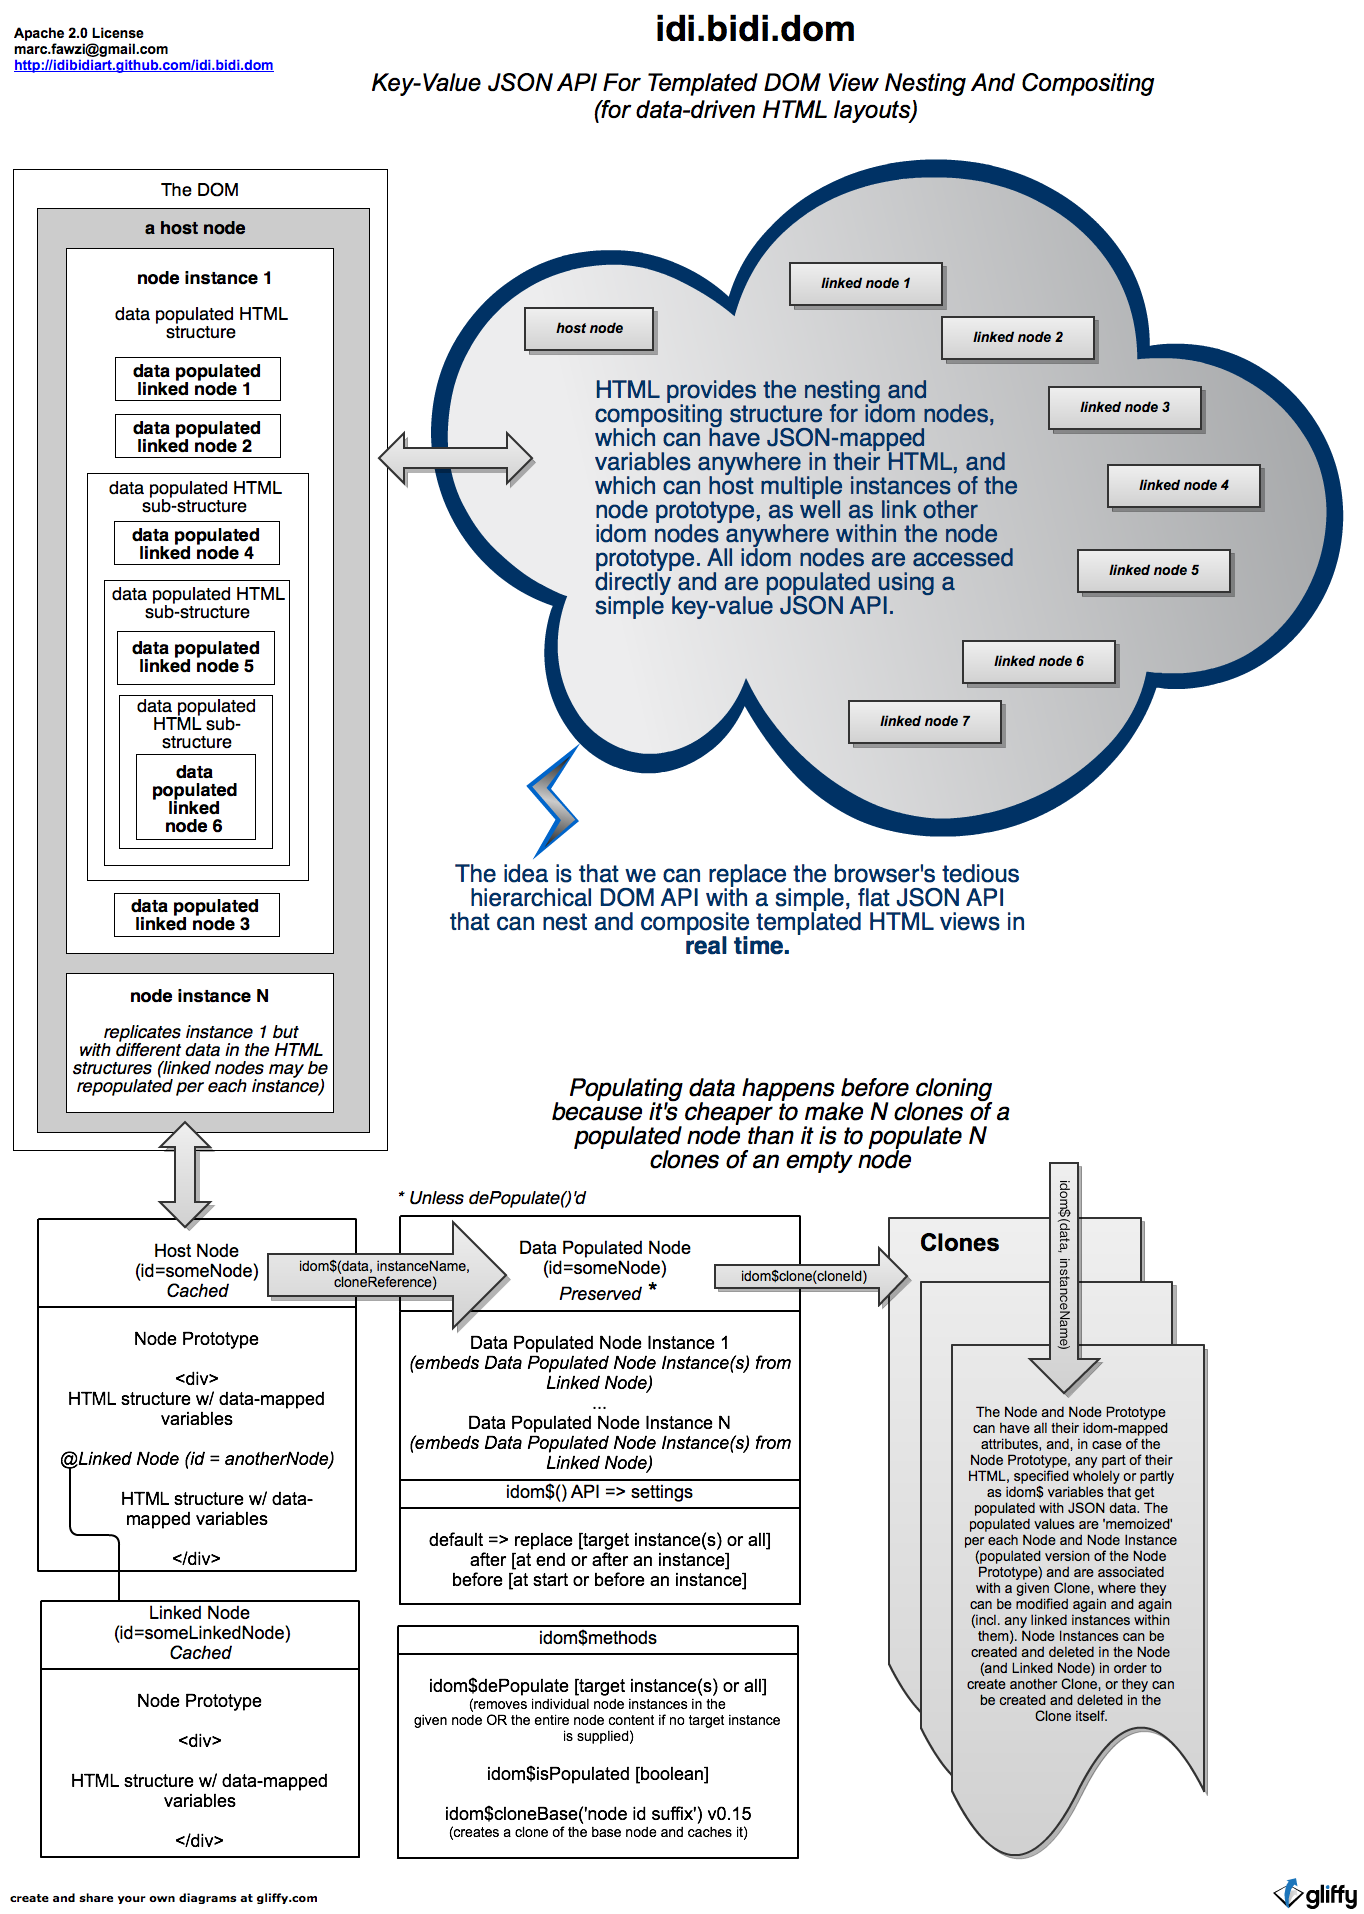
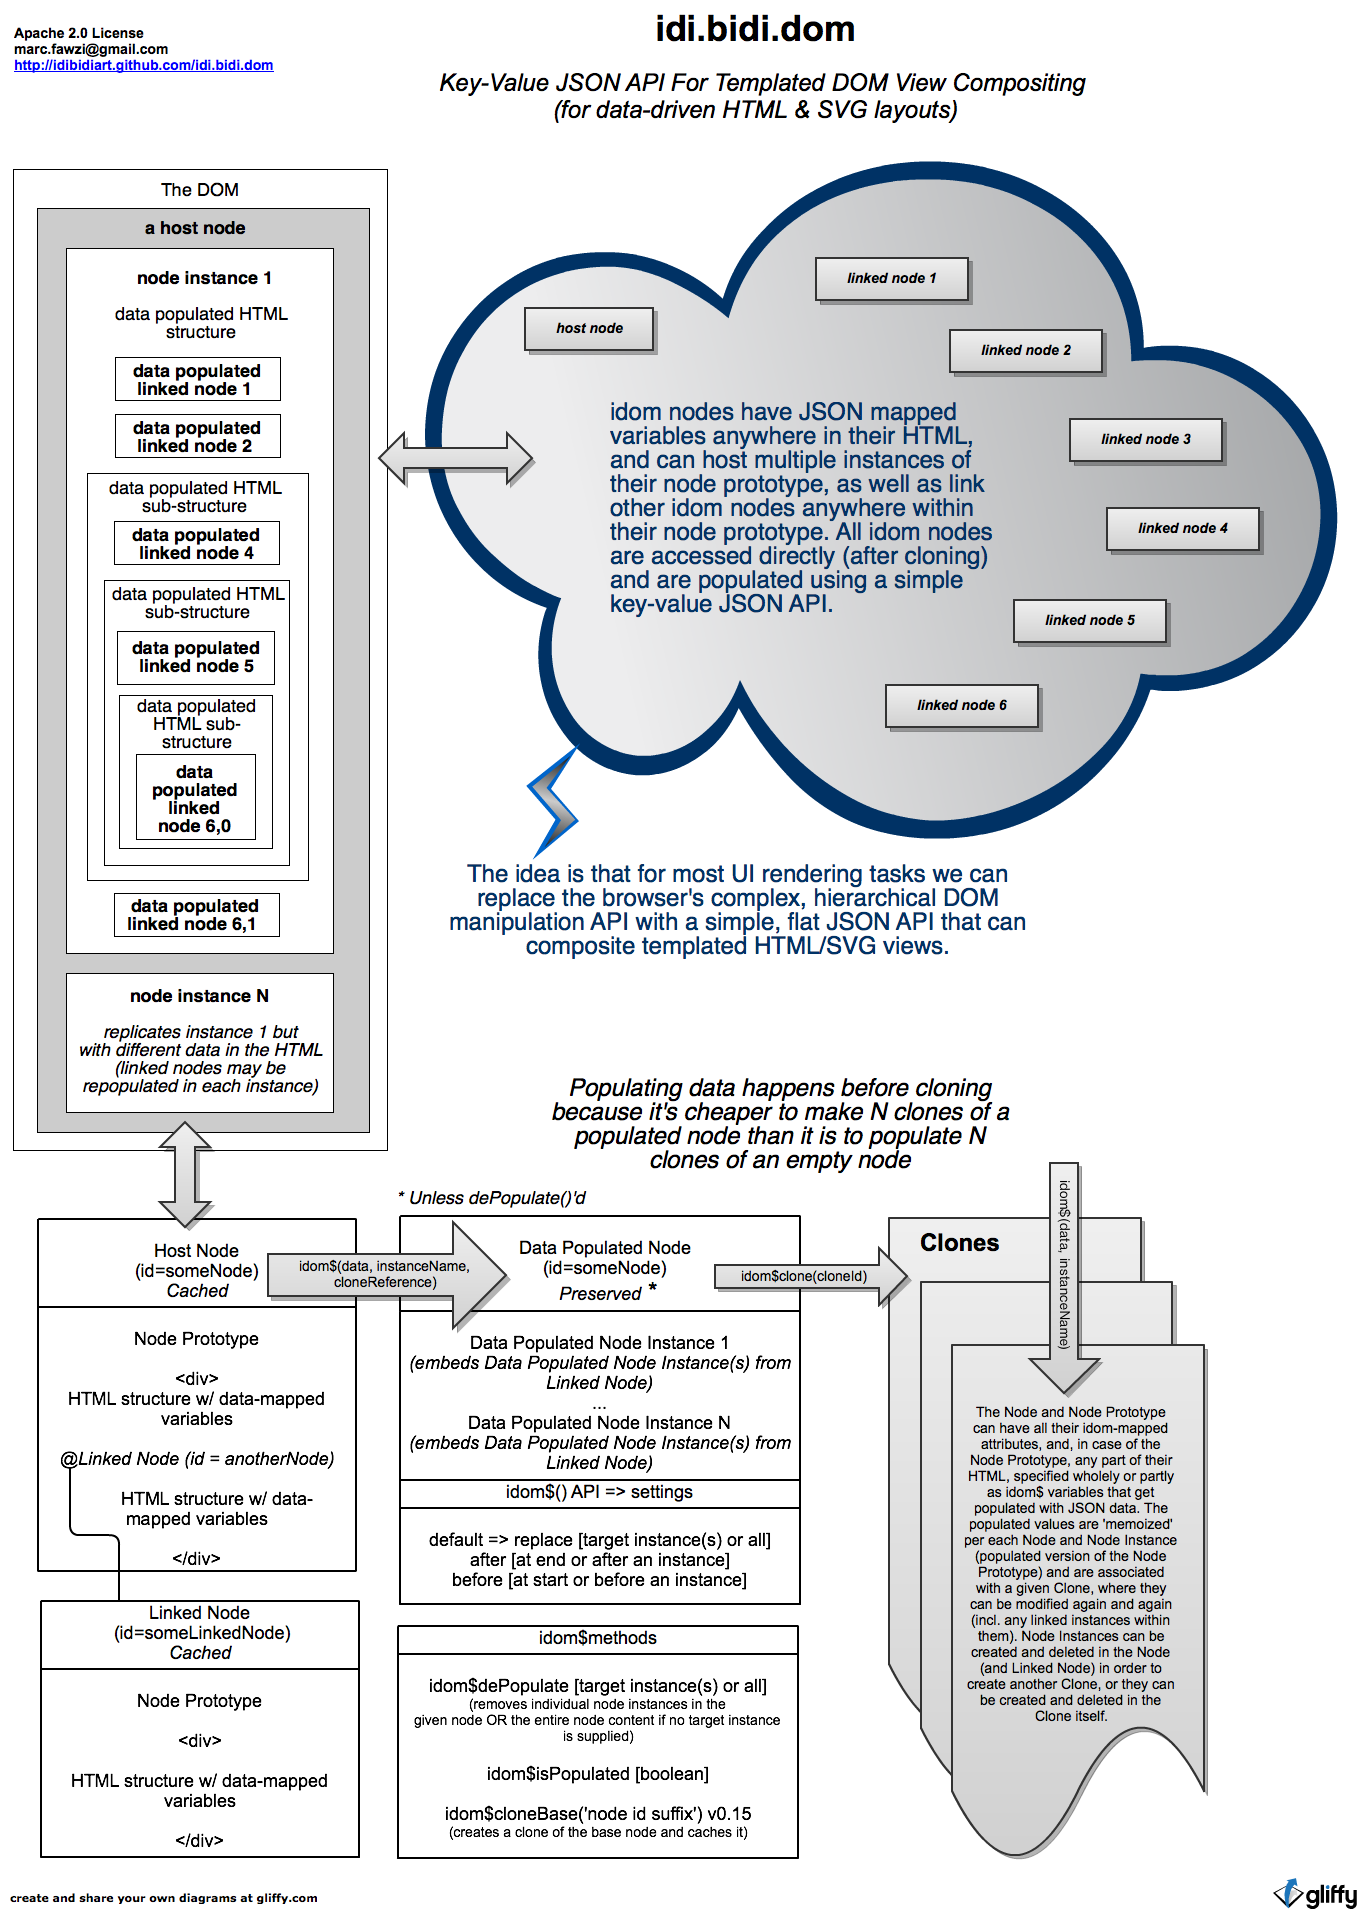
allowed linking same node more than once in the host node prototype

diff --git a/idom.js b/idom.js
@@ -1,9 +1,9 @@
 /*! idi.bidi.dom 
 * 
 * 
-* idom v0.16
+* idom v0.17
 * 
-* Key-value JSON API for template-based HTML view nesting and compositing 
+* Key-value JSON API for template-based HTML view compositing 
 * 
 * ****************************************************************************
 * 
@@ -37,41 +37,34 @@
  * 
  * This version should work in all recent versions of the major browsers
  *
- * idi.bidi.dom - Anti-Templating Framework For Javascript -- offers a radically
+ * idi.bidi.dom - Anti-Templating Framework For Javascript -- offers a new and
  * different way for interacting with the DOM. In abstract terms, it takes the DOM 
- * and adds variables, variable memoization, encapsulation, multiple-inheritance and 
+ * and adds variables, scope, variable memoization, multiple-inheritance and 
  * type polymorphism (with the Node Prototype as the user defined type) In logical 
- * terms, it offers a list-based API for creating, populating, and de-populating 
+ * terms, it offers a flat JSON API for creating, populating, and de-populating 
  * predetermined DOM structures with the ability to link, directly access, populate
- * and de-populate other predetermined DOM structures at any depth within them, thus 
- * giving us a simple and consistent alternative to the DOM's native API while allowing 
- * us to reduce the amount of HTML as well as separate the HTML from the presentation 
- * logic.
+ * and de-populate other such DOM structures at any depth within them. It gives us 
+ * a simpler alternative to the browser's hierarchical DOM manipulation API while 
+ * allowing us to reduce the amount of HTML as well as separate the HTML from the 
+ * presentation logic.
  *  
  * Why use it?
  * 
  * idi.bidi.dom reduces HTML on a page to a minimum and places a simple and consistent
  * JSON API between presentation logic and the DOM
  * 
- * How does it work?
+ * What does it do?
  * 
  * idi.bidi.dom allows the DOM to be decomposed into Nodes each having a Node Prototype 
  * with data-injected variables in their markup. Multiple instances of each Node (i.e. 
  * data populated versions, each with its own persisted data) may be created, populated 
- * with data, and inserted into --and deleted from-- the Node (with the ability to target 
+ * with data, and inserted into --or deleted from-- the Node (with the ability to target 
  * specific, previously inserted instances of the Node or all such instances). Each Node 
- * may embed any number of other Nodes, at any depth within its markup.
+ * may embed any number of other Nodes, at any depth within its Node Prototype's markup.
  * 
- * Additionally, idi.bidi.dom allows the cloning of each Node and all the populated
- * instances within it (including any populated Linked Nodes that were embedded into the 
- * host's Node Prototype) This means that we could re-use the same host Node to create 
- * any number of differently populated Clones with nested Nodes, which allows us to
- * composite and nest DOM views.  
- *
- * Unlike other data-driven DOM rendering frameworks, idi.bidi.dom does not attempt 
- * to take the place of Javascript itself nor does it add its own boilerplate; it 
- * simply gives Javascript more power by offering a simple and consistent interface
- * to the DOM. 
+ * Additionally, idi.bidi.dom allows us to clone populated Nodes to create copies of the 
+ * Node (and any Linked Nodes within it) which can be re-populated and de-populated in 
+ * direct fashion.
  *
  * Usage:
  *
@@ -1432,13 +1425,13 @@ Element.prototype.idom$clone = Element.prototype.idom$clone || function() {
 		
 		for (var n = 0; n < linkedNodes.length; n++) {
 			
-			linkedNodes[n].setAttribute("idom-node-id", linkedNodes[n].getAttribute("idom-node-id").replace(/\@link\@(.*)$/, "") + "@clone@" + cloneId)
+			linkedNodes[n].setAttribute("idom-node-id", linkedNodes[n].getAttribute("idom-node-id") + "@clone@" + cloneId)
 			
 		}
 		
 	} else if (typeof linkedNodes.style != 'undefined') {
 			
-			linkedNodes.setAttribute("idom-node-id", linkedNodes.getAttribute("idom-node-id").replace(/\@link\@(.*)$/, "") + "@clone@" + cloneId)
+			linkedNodes.setAttribute("idom-node-id", linkedNodes.getAttribute("idom-node-id") + "@clone@" + cloneId)
 	}
     
 	var els = el.querySelectorAll("[idom-instance-name]");
@@ -1447,12 +1440,12 @@ Element.prototype.idom$clone = Element.prototype.idom$clone || function() {
 
 			for (var n = 0; n < els.length; n++) {
 				
-				els[n].setAttribute("idom-instance-name", els[n].getAttribute("idom-instance-name").replace(/\@link\@(.*)$/, "") + "@clone@" + cloneId)
+				els[n].setAttribute("idom-instance-name", els[n].getAttribute("idom-instance-name") + "@clone@" + cloneId)
 			}
 	
 	} else if (typeof els.style != 'undefined') {
 		
-		els.setAttribute("idom-instance-name", els.getAttribute("idom-instance-name").replace(/\@link\@(.*)$/, "") + "@clone@" + cloneId)
+		els.setAttribute("idom-instance-name", els.getAttribute("idom-instance-name") + "@clone@" + cloneId)
 	} 
 	
 	return el;
@@ -1687,16 +1680,19 @@ function insertLinkedNodes(elem) {
 	if (nestedCommentNodes[0]) {
 	
 		var linkedNodeIDList = '';
+		var copy = 0;
 		
 		for (var n = 0; n < nestedCommentNodes.length; n++) {
-		
-			var id = nestedCommentNodes[n].textContent.match(/(@idom)([\s+])(\w+)/) ? nestedCommentNodes[n].textContent.match(/(@idom)([\s+])(\w+)/)[3] : null;
+			
+			var match = nestedCommentNodes[n].textContent.match(/(@idom)([\s+])(\w+)/);
+			var id = match ? match[3] : null;
+			
 	
 			if (id.indexOf('@') != -1) {
 				
 				var err = new Error;
 		
-				err.message = "bad <--! @ id --> // id for node to be linked may not contain any link or clone references (link base node instead)"
+				err.message = "bad <--! @idom id --> // id for node to be linked may not contain any link or clone references (link base node instead)"
 				 
 				throw err.message + '\n' + err.stack;	
 			}
@@ -1705,15 +1701,13 @@ function insertLinkedNodes(elem) {
 								
 				if (linkedNodeIDList.indexOf(id) != -1) {
 					
-					var err = new Error;
+					copy++;
 					
-					err.message = "cannot link the same node more than once into the same host node: use idom$cloneBase('version id') to create a new version of the base node before linking (coming in v0.12)";
-					 
-					throw err.message + '\n' + err.stack;
-				}
+				} else {
+					
+					linkedNodeIDList += id + ",";
+				}	
 				
-				linkedNodeIDList += id + ",";
-					
 				var linkedNode = document.querySelector('[idom-node-id=' + id + ']');
 				
 				if (!linkedNode) {
@@ -1735,13 +1729,11 @@ function insertLinkedNodes(elem) {
 					throw err.message + '\n' + err.stack;
 				}
 				
-				
-			    // use the HTML, Luke!
 				if (idomDOM.cache[id].indexOf('@idom') != -1) {
 					
 						var err = new Error;
 						
-						err.message = "can't nest linked nodes within each other (bad idea)... \n";
+						err.message = "can't nest linked nodes within each other";
 						 
 						throw err.message + '\n' + err.stack;	
 				}
@@ -1752,12 +1744,12 @@ function insertLinkedNodes(elem) {
 			   	
 			   	var elemInstanceId = elem.getAttribute("idom-instance-name");
 			   	
-				for (var n = 0; n < el.children.length || n < 1; n++) {
+				for (var i = 0; i < el.children.length; i++) {
 								
-					el.children[n].setAttribute("idom-instance-name", el.children[n].getAttribute("idom-instance-name") + "@link@" + elemInstanceId);
+					el.children[i].setAttribute("idom-instance-name", el.children[i].getAttribute("idom-instance-name") + "@link@" + elemInstanceId + '@copy@' + copy);
 				} 
 				
-				el.setAttribute("idom-node-id", el.getAttribute("idom-node-id") + "@link@"  + elemInstanceId);
+				el.setAttribute("idom-node-id", el.getAttribute("idom-node-id") + "@link@"  + elemInstanceId + '@copy@' + copy);
 			} 
 		}
 		

diff --git a/index.html b/index.html
@@ -131,7 +131,7 @@
 /*! idi.bidi.dom 
 * 
 * 
-* idom v0.16
+* idom v0.17
 * 
 * Key-value JSON API for template-based HTML view nesting and compositing 
 *
@@ -166,16 +166,16 @@
 <img src= "idom.png";/>
 <br>
 /* 
- * idi.bidi.dom - Anti-Templating Framework For Javascript -- offers a radically
- * different way for interfating with the DOM. In abstract terms, it takes the DOM 
- * and adds variables, variable memoization, encapsulation, multiple-inheritance and 
+ * idi.bidi.dom - Anti-Templating Framework For Javascript -- offers a new and
+ * different way for interacting with the DOM. In abstract terms, it takes the DOM 
+ * and adds variables, scope, variable memoization, multiple-inheritance and 
  * type polymorphism (with the Node Prototype as the user defined type) In logical 
- * terms, it offers a list-based API for creating, populating, and de-populating 
+ * terms, it offers a flat JSON API for creating, populating, and de-populating 
  * predetermined DOM structures with the ability to link, directly access, populate
- * and de-populate other predetermined DOM structures at any depth within them, thus 
- * giving us a simple and consistent alternative to the DOM's native API while allowing 
- * us to reduce the amount of HTML as well as separate the HTML from the presentation 
- * logic.
+ * and de-populate other such DOM structures at any depth within them. It gives us 
+ * a simpler alternative to the browser's hierarchical DOM manipulation API while 
+ * allowing us to reduce the amount of HTML as well as separate the HTML from the 
+ * presentation logic.
  *
  */
 <br>
@@ -569,7 +569,7 @@ function button1() {
 	// node prototype of the original node the clone is copied from)
 	// when operating on a clone, we discard the forClone argument
 	
-	_$('[idom-node-id="userInfo@clone@clone2"]').idom$( 
+	_$('[idom-node-id="userInfo@link@teamInfo2@clone@clone2"]').idom$( 
 		{
 			someHandler: "" //null value removes the handler
 		},
@@ -602,7 +602,7 @@ function button2() {
 	// node prototype of the original node the clone is copied from)
 	// when operating on a clone, we discard the forClone argument
 	
-	_$('[idom-node-id="userInfo@clone@clone2"]').idom$( 
+	_$('[idom-node-id="userInfo@link@teamInfo2@clone@clone2"]').idom$( 
 		{
 			someHandler: "idom.eventHandler(event, this, changeInstance)" 
 		},
@@ -759,6 +759,7 @@ function rndColor() {
 </div>
 
 <pre>	
+<br>
 <a href="javascript:_$('#code1').style.display='block'">Show Code for Example 1</a>
 <a href="javascript:_$('#code1').style.display='none'">Hide Code for Example 1</a>
 
@@ -1147,47 +1148,40 @@ function rndColor() {
 
 </div>
 	
-******************************************************************************
+/******************************************************************************
  * 
  * README:
  * 
- * This version should work in all recent versions of the major browsers 
+ * This version should work in all recent versions of the major browsers
  *
- * idi.bidi.dom - Anti-Templating Framework For Javascript -- offers a radically
+ * idi.bidi.dom - Anti-Templating Framework For Javascript -- offers a new and
  * different way for interacting with the DOM. In abstract terms, it takes the DOM 
- * and adds variables, variable memoization, encapsulation, multiple-inheritance and 
+ * and adds variables, scope, variable memoization, multiple-inheritance and 
  * type polymorphism (with the Node Prototype as the user defined type) In logical 
- * terms, it offers a list-based API for creating, populating, and de-populating 
+ * terms, it offers a flat JSON API for creating, populating, and de-populating 
  * predetermined DOM structures with the ability to link, directly access, populate
- * and de-populate other predetermined DOM structures at any depth within them, thus 
- * giving us a simple and consistent alternative to the DOM's native API while allowing 
- * us to reduce the amount of HTML as well as separate the HTML from the presentation 
- * logic.
+ * and de-populate other such DOM structures at any depth within them. It gives us 
+ * a simpler alternative to the browser's hierarchical DOM manipulation API while 
+ * allowing us to reduce the amount of HTML as well as separate the HTML from the 
+ * presentation logic.
  *  
  * Why use it?
  * 
  * idi.bidi.dom reduces HTML on a page to a minimum and places a simple and consistent
  * JSON API between presentation logic and the DOM
  * 
- * How does it work?
+ * What does it do?
  * 
  * idi.bidi.dom allows the DOM to be decomposed into Nodes each having a Node Prototype 
  * with data-injected variables in their markup. Multiple instances of each Node (i.e. 
  * data populated versions, each with its own persisted data) may be created, populated 
- * with data, and inserted into --and deleted from-- the Node (with the ability to target 
+ * with data, and inserted into --or deleted from-- the Node (with the ability to target 
  * specific, previously inserted instances of the Node or all such instances). Each Node 
- * may embed any number of other Nodes, at any depth within its markup.
+ * may embed any number of other Nodes, at any depth within its Node Prototype's markup.
  * 
- * Additionally, idi.bidi.dom allows the cloning of each Node and all the populated
- * instances within it (including any populated Linked Nodes that were embedded into the 
- * host's Node Prototype) This means that we could re-use the same host Node to create 
- * any number of differently populated Clones with nested Nodes, which allows us to
- * composite and nest DOM views.  
- *
- * Unlike other data-driven DOM rendering frameworks, idi.bidi.dom does not attempt 
- * to take the place of Javascript itself nor does it add its own boilerplate; it 
- * simply gives Javascript more power by offering a simple and consistent interface
- * to the DOM. 
+ * Additionally, idi.bidi.dom allows us to clone populated Nodes to create copies of the 
+ * Node (and any Linked Nodes within it) which can be re-populated and de-populated in 
+ * direct fashion.
  *
  * Usage:
  *
